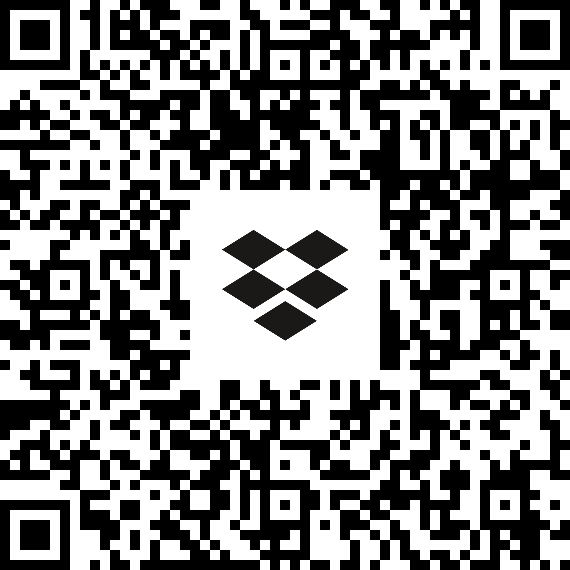
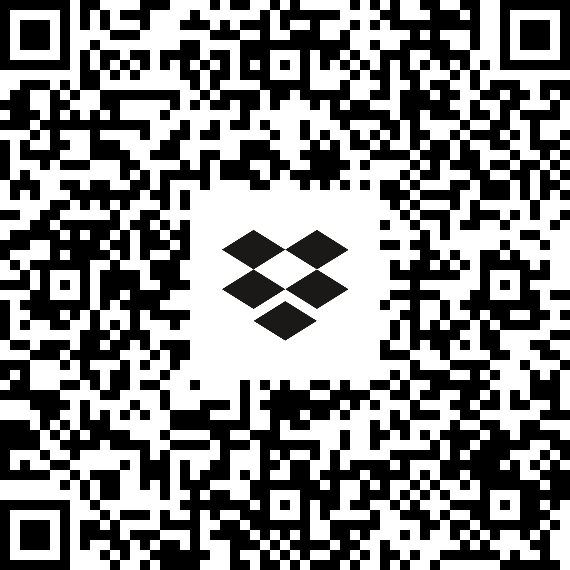
app ready

diff --git a/index.html b/index.html
@@ -25,7 +25,7 @@
               </button>
               <div class="collapse navbar-collapse justify-content-end" id="navbarNavAltMarkup">
                 <div class="navbar-nav ">
-                  <a class="nav-link text-white fs-2 pe-5 me-5 fw-bold" target="_blank" href="https://dashboard.ionicframework.com/app/c32599d0/build/builds/9068290">About</a>
+                  <a class="nav-link text-white fs-2 pe-5 me-5 fw-bold" target="_blank" href="https://dashboard.ionicframework.com/app/c32599d0/build/builds/9068333">About</a>
                 </div>
               </div>
             </div>
@@ -75,7 +75,7 @@
                                 <img class="img-fluid w-25 mt-1"  src="img/appQR.png" alt="qr-app">
                             </div>
                             <div id="elementoMovil" style="display: none;">
-                                <a class="btn btn-warning" href="https://www.dropbox.com/scl/fi/fkgeop4m0ymaq3c852guu/ShowURself.apk?rlkey=zd898iodnpqexc6m4349fm2px&dl=0" role="button">Descarga la App</a>
+                                <a class="btn btn-warning" href="https://www.dropbox.com/scl/fi/ktkpv97knt9m1mas90u9i/ShowURself.apk?rlkey=34rzg62as340ar07tyvnfil34&dl=0" role="button">Descarga la App</a>
                             </div>
                         </div>
                         <div class="col-md-6 text-center ">
